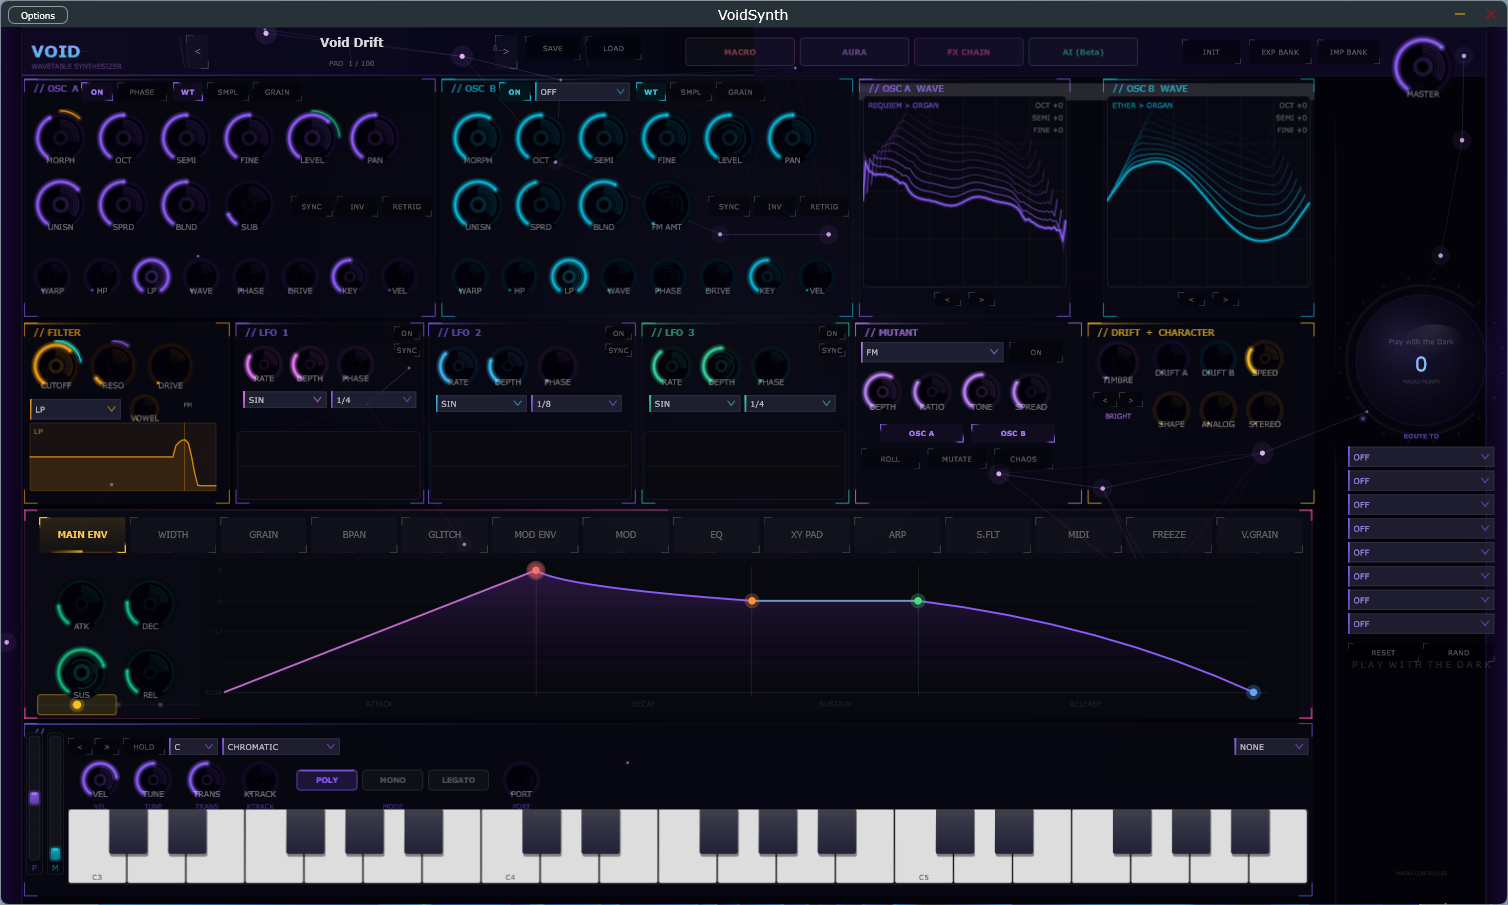
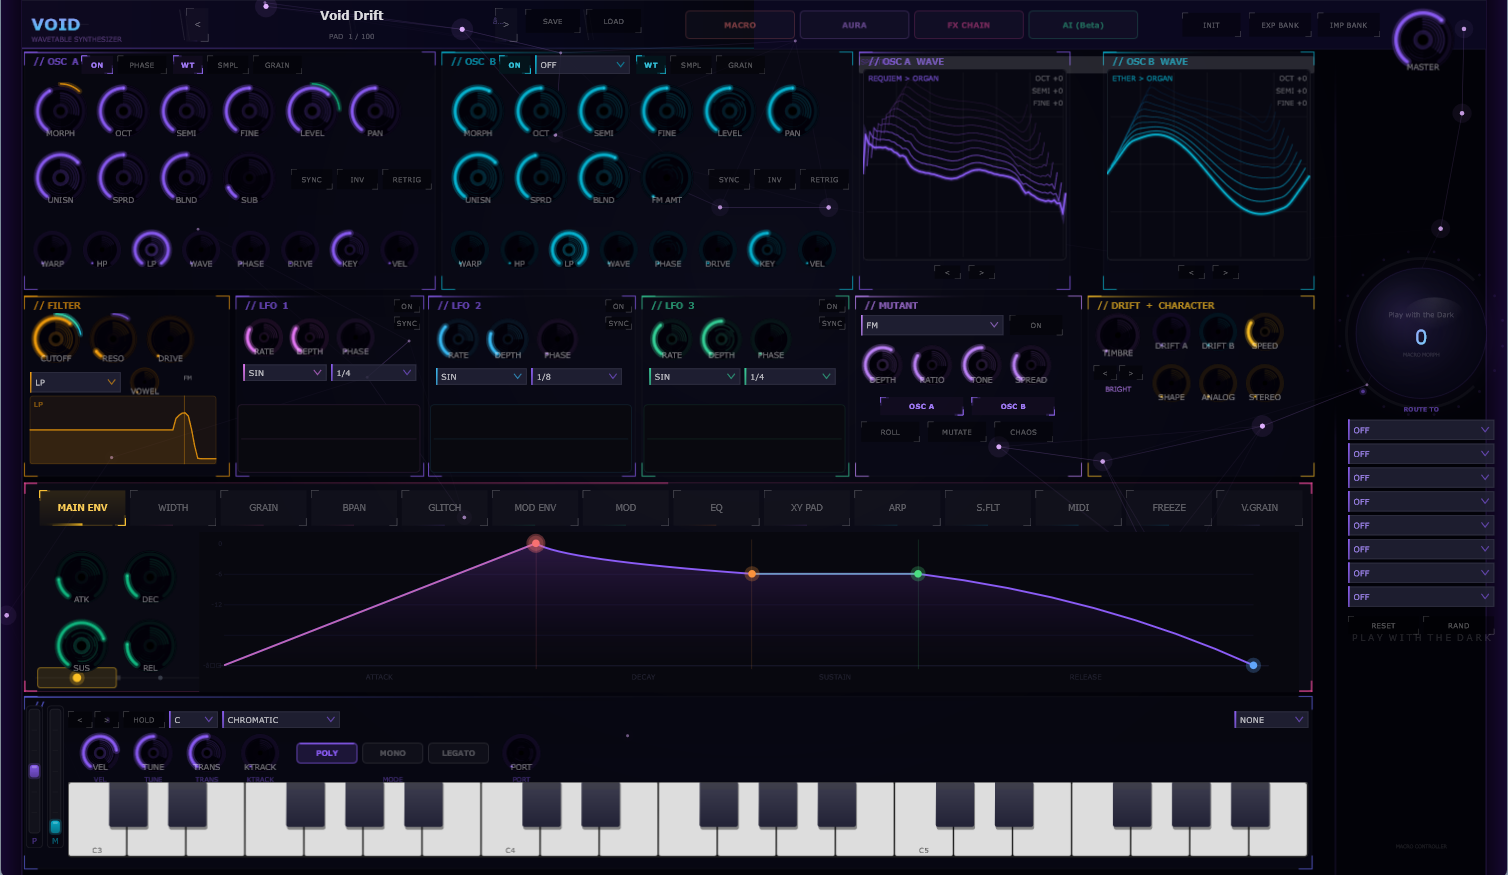
Crop OS title bar from VoidSynth screenshot, widen stage further
The screenshot included the OS window chrome (title bar with Options
menu and minimize/close buttons), which was dead space shrinking the
actual synth UI within the frame. Cropped that off (top 27px, bottom
3px). Also widened the stage to 1700px to better match GIT's visual
height given VoidSynth's inherently wider/landscape aspect ratio.

diff --git a/css/style.css b/css/style.css
@@ -310,7 +310,7 @@ h1,h2,h3{ font-family:"Orbitron", sans-serif; letter-spacing:.04em; }
 /* VoidSynth showcase — mirrors .showcase but violet-tinted */
 .vs-showcase{ border-top:1px solid rgba(139,92,255,.15); }
 
-.vs-showcase .stage{ width:min(1550px,98vw); }
+.vs-showcase .stage{ width:min(1700px,98vw); }
 
 .vs-stage-floor{ width:70%; height:60px; margin:-6px auto 0; border-radius:50%;
   background:radial-gradient(ellipse at center, rgba(139,92,255,.28), transparent 70%); filter:blur(8px); }
